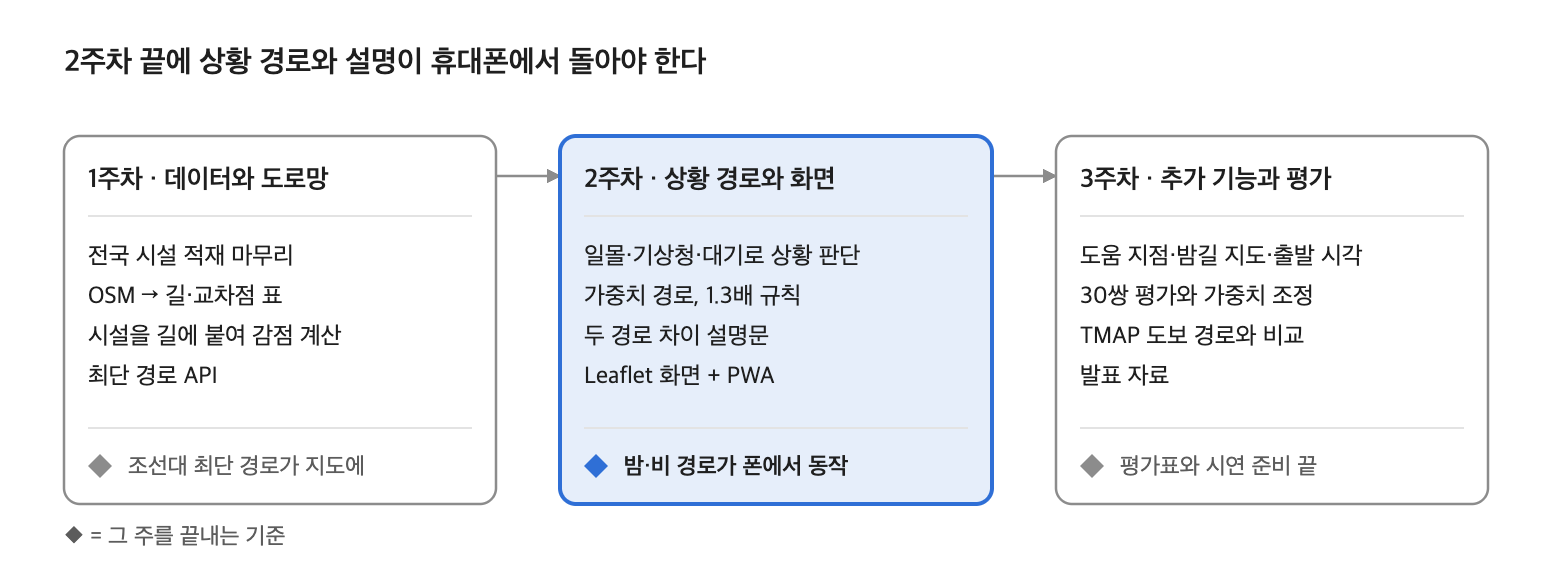
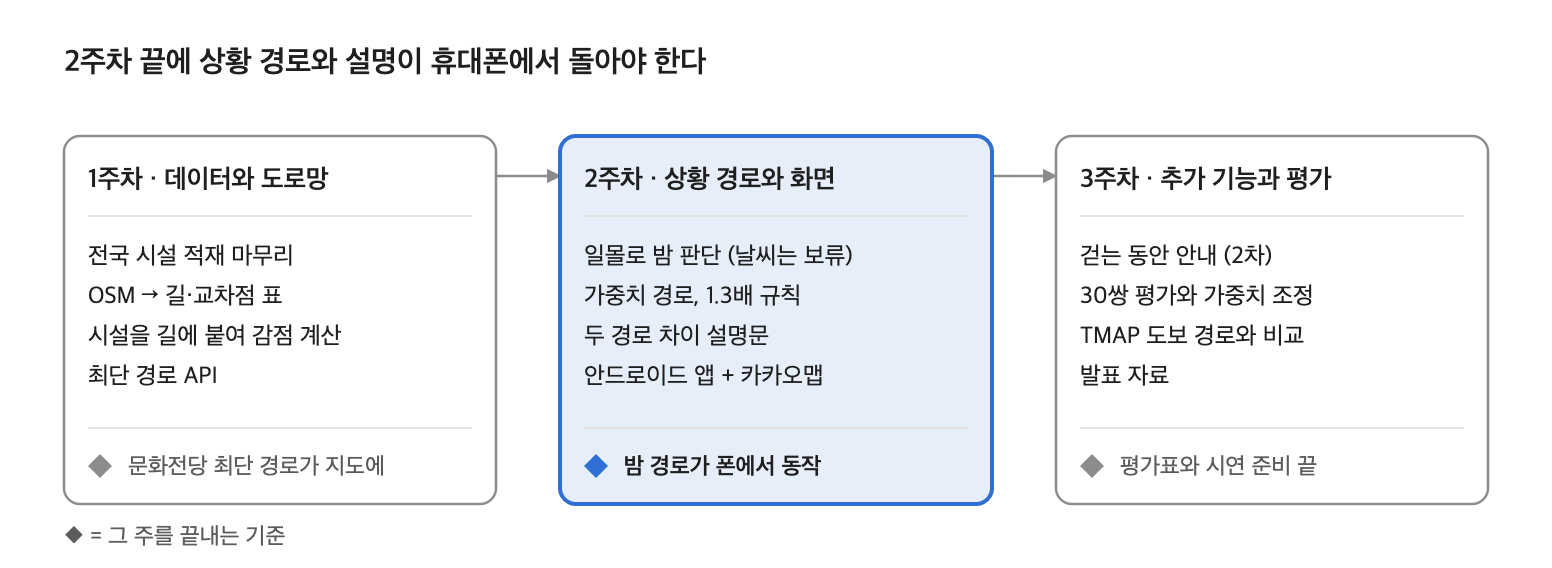
docs: v15 - 6장을 경로 엔진 기준(커버율·λ)으로 다시 씀, 0·3장 참조와 원본 그림 2개 고침

diff --git a/requirements/05-data-and-cost-model.md b/requirements/05-data-and-cost-model.md
@@ -100,86 +100,59 @@
 
 ## 6. 경로 비용 모델
 
-길 하나의 비용은 **길이에 상황별 감점을 곱한 값**이다. 감점이 모두 0이면 최단 경로와 같고, 감점이 클수록 같은 길이도 더 멀게 친다. 조선대 데이터로 돌려 본 결과와 바꿀 점은 6.5에 있다.
+경로 엔진(B파트 원일, develop에 합침 PR #28·#30)이 길을 고르는 기준이다. 실제 값은 코드 저장소의 `src/main/resources/route.yml`, 설명은 `docs/route-weights.md`에 있고, 결정 과정과 근거는 B파트의 「경로 엔진 결정 사항 정리」(2026-11-02·03 확정)에 있다. 값을 바꾸면 세 곳과 이 장을 함께 고친다. 처음 안(길이에 상황별 감점을 곱하는 식, 2026-10-29)은 시험해 보니 짧은 계단·횡단에 감점이 거의 붙지 않아 어린이·노인 모드가 작동하지 않았고(6.5), 그래서 지금 식으로 바꿨다.
 
-```latex
-\text{cost}(e) = \text{length}(e) \times \left(1 + \sum_{k} w_k(\text{상황}) \cdot p_k(e)\right), \quad 0 \le p_k(e) \le 1
+```text
+길 비용 = 길이 + λ × 추가 비용
+추가 비용 = 길이 × Σ 비중 × (그 길 중 기준 범위 밖 비율)
 ```
 
-### 6.1 감점 항목
+### 6.1 기준 항목
 
-감점은 모두 0\~1로 맞춘다. 시설 수는 길이로 나눠서, 긴 길이 시설이 많아 보이는 것을 막는다.
+길마다 시설 범위 안에 드는 길이의 비율(커버율)을 본다. 범위 밖 비율이 클수록 추가 비용이 붙는다. DB의 `edge_stat`에는 원값만 있고, 서버가 요청 때 정제 시설 표 `poi`로 계산한다.
 
-| 감점 | 계산 | 쓰는 데이터 | 결합 반경 |
+| 기준 | 시설 | 범위 | 쓰는 모드·때 |
 | --- | --- | --- | --- |
-| 밝기 부족 | 1 − min(1, 조명 수 ÷ (길이 ÷ 25m)) | 가로등 + 보안등 | 30m |
-| CCTV 부족 | 1 − min(1, 카메라 대수 ÷ (길이 ÷ 50m)) | CCTV (10m 안 중복은 하나로) | 50m |
-| 도움 지점 멀음 | min(1, 가장 가까운 도움 지점까지 거리 ÷ 300m) | 경찰·편의점·지킴이집·비상벨 | 길 가운데에서 300m |
-| 덮개 없음 | 덮인 길이면 0, 아니면 1 | OSM `covered`, `tunnel`, `indoor` | — |
-| 계단 | 계단이면 1, 아니면 0 | OSM `highway=steps` | — |
-| 무더위쉼터 멀음 | min(1, 가장 가까운 쉼터 ÷ 500m) | 무더위쉼터 | 500m |
-| 한파쉼터 멀음 | min(1, 가장 가까운 쉼터 ÷ 500m) | 한파쉼터 | 500m |
-| 큰 차도 | 간선·주간선도로 1, 보조간선 0.5, 나머지 0 | OSM `highway` 등급 | — |
+| 밝기 `light` | 가로등·보안등 | 길 따라 30m (가장 가까운 길 하나에 20m 안으로 붙임. 직선 반경은 건물 너머 길까지 세어 약 1/3을 과대 계산했음) | 어른·어린이·노인의 밤 |
+| CCTV `cctv` | CCTV. 교통·쓰레기·시설·재난 단속용은 빼고 목적 모름은 셈(결정 39) | 길 따라 50m | 어른·어린이·노인의 밤 |
+| 도움 시설 `help` | 낮: 경찰·편의점·비상벨·아동안전지킴이집. 밤: 지킴이집과 건물·화장실 안 비상벨을 빼고 셈 | 반경 (어른 160m, 어린이 150m, 노인 120m) | 어린이 낮, 어른·어린이·노인의 밤 |
+| 보호구역 `school` | 어린이보호구역 대상 시설 | 반경 300m (도로교통법 제12조) | 어린이 낮 |
+| 쉴 곳 `rest` | 무더위·한파쉼터, 공중화장실 | 반경 120m | 노인 낮 (밤에는 화장실을 경로에 넣지 않음) |
 
-### 6.2 상황별 가중치 (초깃값)
+반경은 걸어서 약 2분 거리다. 도움 시설과 쉴 곳은 지금 이용 가능한 곳만 센다(6.3).
 
-상황이 겹치면 가중치를 더한다. 값은 설정 파일에 두고 2주차 평가로 조정한다.
+### 6.2 모드별 기준
 
-| 감점 | 평소 | 밤 | 비 | 폭염 | 한파 | 미세먼지 |
-| --- | --- | --- | --- | --- | --- | --- |
-| 밝기 부족 | 0 | 1.0 | 0 | 0 | 0 | 0 |
-| CCTV 부족 | 0 | 0.6 | 0 | 0 | 0 | 0 |
-| 도움 지점 멀음 | 0 | 0.4 | 0 | 0 | 0 | 0 |
-| 덮개 없음 | 0 | 0 | 0.5 | 0.2 | 0 | 0 |
-| 계단 | 0 | 0.1 | 0.3 | 0 | 0.3 | 0 |
-| 무더위쉼터 멀음 | 0 | 0 | 0 | 0.4 | 0 | 0 |
-| 한파쉼터 멀음 | 0 | 0 | 0 | 0 | 0.4 | 0 |
-| 큰 차도 | 0 | 0 | 0 | 0 | 0 | 0.5 |
+| 모드 | 낮 | 밤 | 우회 한도 | 걸음 속도 |
+| --- | --- | --- | --- | --- |
+| 일반 `adult` | 가장 짧은 길 | 밝기 > 도움 시설(160m) > CCTV (비중 9 : 3 : 1) | 1.3배 | 분당 80m |
+| 어린이 `child` | 보호구역(300m) > 도움 시설(150m) (3 : 1) | 일몰 60분 전부터 밤. 밝기 > 도움 시설(150m) > CCTV (9 : 3 : 1) | 1.3배 | 분당 70m |
+| 노인 `senior` | 계단 조건부 제외 + 지금 이용 가능한 쉴 곳(120m) | 계단 조건부 제외 + 밝기 > 도움 시설(120m) > CCTV | 1.2배 | 분당 60m |
+| 장애인 `wheelchair` | 계단(휠체어 경사로가 있는 계단은 지남, 결정 43)·확인된 턱·못 지나는 육교를 뺀 뒤 가장 짧은 길 | 낮과 같음 | 없음 | 분당 60m (정할 것) |
+
+- **계단 조건부 제외:** 계단 없는 길이 우회 한도 안에 있으면 계단 길을 뺀다. 없으면 계단을 지나는 경로를 준다.
+- **밤:** 일몰 시각으로 판단한다(어린이는 일몰 60분 전부터). 비·폭염 같은 날씨는 아직 넣지 않았다(6.4).
+- **장애인 모드:** 지나갈 수 없는 길은 비용을 붙이지 않고 그래프에서 뺀다. 경사는 확인하지 않으므로(결정 36) 화면에 "경사는 확인하지 않은 길"이라고 알린다.
 
 ### 6.3 규칙
 
-- **최대 우회:** 상황 경로가 최단의 1.3배를 넘으면 가중치를 절반으로 줄여 다시 찾는다. 3번 후에도 넘으면 최단 경로를 주고 그 사실을 알린다.
-- **데이터 없음:** 시·군·구의 시설 밀도가 전국 중간값의 10% 아래인 종류는 그 지역에서 감점을 0.5(중립)로 두고 화면에 "데이터 부족"을 표시한다.
-- **미리 계산:** 감점 p는 상황과 관계없으므로 길마다 미리 계산해 DB에 저장하고, 요청 때는 가중치만 곱한다.
-- **차이 설명:** 두 경로가 지나는 시설 수(결합 반경 안)를 종류별로 세어 차이가 큰 순서로 3개까지 문장에 넣는다. 시간은 보행 속도 분당 80m로 환산한다.
+- **λ 찾기:** 맞춤 경로가 우회 한도를 넘지 않는 가장 큰 λ(0\~1)를 이분 탐색으로 찾는다. 한도 안에서 기준을 가장 강하게 챙긴다.
+- **시설 읽기:** 요청마다 `poi`를 한 번 읽어 경로 점수와 설명 문장이 같은 시설 목록을 쓴다. `poi`는 출처 중복을 합치고 단속용 CCTV를 뺀 표라 서버에서 다시 합치지 않는다. 요청 하나에 약 0.1\~0.25초(문화전당 반경 2km)가 걸렸고, 광주 전체 도로망에서의 속도는 B파트가 확인한다.
+- **지금 이용 가능:** A파트 `poi_status`와 같은 규칙을 요청 시각으로 계산한다. 운영 기간(무더위쉼터 5.20\~9.30, 한파쉼터 11.15\~3.15), 여는 시간, 요일, 공휴일(`holiday` 표)로 판단한다. 편의점은 시간 정보가 없어도 연 것으로 보고, 그 밖에 "확인 안 됨"인 시설은 세지 않는다. 시간 정보가 없는 쉼터는 운영 기간 안이면 평일 09\~18시에 연 것으로 본다. 바탕 데이터는 실시간이 아니다.
+- **모르는 값:** 보도턱·신호 등 모르는 값은 감점하지 않고 "확인 안 됨"으로만 알린다(결정 45). 보도턱을 모르는 횡단은 지나간다.
+- **데이터 부족:** `edge_stat.data_gap`의 시설 비트(밝기·CCTV·도움 지점·지킴이집·쉴 곳)는 응답의 `dataQuality`(데이터 부족 표시)에만 쓰고 점수는 바꾸지 않는다. 빈 곳을 안전하다고 하지 않는다(NFR-04).
 
-### 6.4 모드별 가중치 (초깃값)
+### 6.4 쓰지 않는 것과 보류
 
-모드는 6.2의 상황 가중치를 **곱하거나(×) 항상 더하는(+)** 방식으로 바꾼다. "+"는 낮·맑은 날에도 적용된다는 뜻이다.
+- **쓰지 않음:** 사고다발지역(지역 낙인 우려, FR-44 보류), 경사(결정 36), 안심 강화(FR-21, 결정 38).
+- **보류:** 날씨(비·폭염·한파, 6.5의 날씨 가중치 안), 어린이 신호 없는 횡단, 보도턱 신고, 긴급 안내.
+- **DB에만 남김:** 덮인 길, 큰 차도 등급, 횡단 수, 쉼터까지 거리 같은 원값은 엔진이 지금 쓰지 않지만 `edge_stat`·`road_edge`에 남긴다(결정 43). 보류한 기준을 넣을 때 다시 계산하지 않아도 된다.
 
-모드 때문에 감점 3개를 새로 둔다.
+### 6.5 경로 엔진 시험 결과와 결정 과정 (B파트, 2026-10-30\~11-03)
 
-| 새 감점 | 계산 | 쓰는 데이터 |
-| --- | --- | --- |
-| 지킴이집 멀음 | min(1, 가장 가까운 아동안전지킴이집 ÷ 300m) | 생활안전지도 아동안전지킴이집 |
-| 횡단 많음 | min(1, 길 100m당 횡단보도 수 ÷ 2) | OSM `highway=crossing` (부족하면 전국횡단보도표준데이터) |
-| 쉼 곳 멀음 | min(1, 가장 가까운 쉼터·공중화장실 ÷ 300m) | 무더위·한파쉼터, 공중화장실 |
-| 사고다발 영역 (보류) | 길이 모드에 맞는 사고다발 영역 안이면 1, 아니면 0 | 도로교통공단 보행노인·보행어린이 사고다발지역 (FR-44) |
+아래는 6.1\~6.4 기준을 정하기까지의 기록이다. B파트(원일)가 처음 안(길이에 상황별 감점을 곱하는 식과 상황·모드별 가중치 초깃값, 2026-10-29)을 조선대 주변 실제 데이터(OSM 길 5,100개와 팀 DB 시설)로 돌려 본 결과에서 시작한다. 무작위 출발·도착 200쌍(직선 0.5\~3km)을 모드별로 비교했다. 아래 값 중에는 지금 쓰지 않는 것도 있으니, 지금 기준은 6.1\~6.4와 `route.yml`을 본다. 원문은 B파트의 「경로 엔진 결정 사항」과 코드 저장소의 `docs/route-weights.md`다.
 
-| 항목 | 어린이·청소년 | 청년·중년 (기준) | 노인 |
-| --- | --- | --- | --- |
-| 나이 | 18세 이하 | 19\~64세 | 65세 이상 |
-| 밤 감점(밝기·CCTV·도움 지점) | ×1.5 | ×1 | ×1 |
-| 지킴이집 멀음 | +0.4 | 0 | 0 |
-| CCTV 부족 | +0.3 | 상황값 | 상황값 |
-| 큰 차도 | +0.5 | 상황값 | +0.3 |
-| 횡단 많음 | +0.3 | 0 | +0.3 |
-| 계단 | 상황값 | 상황값 | +0.6 |
-| 쉼 곳 멀음 | 0 | 0 | +0.3 |
-| 사고다발 영역 (보류) | +0.2 (어린이 영역) | 0 | +0.2 (노인 영역) |
-| 최대 우회 | 1.3배 | 1.3배 | 1.2배 |
-| 보행 속도 (시간 환산) | 분당 70m | 분당 80m | 분당 60m |
-| 밤 판단 시작 | 일몰 1시간 전 | 일몰 | 일몰 |
-
-경사는 쓰지 않는다(결정 36). 노인 모드는 계단 감점으로 대신한다. 어린이·청소년 모드의 값은 두 나이대를 합친 추정값이라 2주차 평가와 민감도 분석으로 고친다.
-
-**휠체어 모드 (FR-46, 3차, 초깃값).** 다른 모드와 달리 "지나갈 수 없는 길"은 감점이 아니라 그래프에서 뺀다: 계단, 엘리베이터 없는 육교·지하보도. 감점은 보도턱 안 낮춘 횡단보도 +1.0, 고르지 않은 바닥 +0.3, 정보 없는 횡단보도 +0.2(그리고 "확인 안 됨" 표시)로 둔다. 밤 감점은 청년·중년과 같게(×1) 하고, 최대 우회는 1.5배, 속도는 분당 60m다. 값은 사용자 확인과 평가로 고친다. 경사는 휠체어 모드에도 쓰지 않으므로(결정 36) 화면에 "경사는 확인하지 않은 길"이라고 알린다.
-
-### 6.5 경로 엔진 시험 결과와 정할 것 (B파트, 2026-10-30)
-
-B파트(원일)가 6.1\~6.4 값을 조선대 주변 실제 데이터(OSM 길 5,100개와 팀 DB 시설)로 돌려 본 결과다. 무작위 출발·도착 200쌍(직선 0.5\~3km)을 모드별로 비교했다. 원문은 B파트의 「경로 엔진 결정 사항」과 코드 저장소의 `docs/route-weights.md`다.
-
-**결론.** 지금 식(감점을 길이에 곱함)으로는 어린이·노인 모드가 거의 작동하지 않는다. 계단(평균 34m)이나 횡단 구간(절반이 30m 미만)처럼 짧은 길에 붙은 감점은 비용이 몇 m밖에 안 붙기 때문이다. 밤에 노인이 계단을 피한 경우는 0%였다. 휠체어의 제외 규칙은 확실히 작동했다(계단 0곳). 계단·횡단을 지날 때마다 고정 비용을 더하는 방식으로 바꾸자 세 지역 모두에서 작동했다.
+**결론.** 처음 식(감점을 길이에 곱함)으로는 어린이·노인 모드가 거의 작동하지 않는다. 계단(평균 34m)이나 횡단 구간(절반이 30m 미만)처럼 짧은 길에 붙은 감점은 비용이 몇 m밖에 안 붙기 때문이다. 밤에 노인이 계단을 피한 경우는 0%였다. 휠체어의 제외 규칙은 확실히 작동했다(계단 0곳). 계단·횡단을 지날 때마다 고정 비용을 더하는 방식으로 바꾸자 세 지역 모두에서 작동했다.
 
 | 확인한 것 (조선대 200쌍) | 지금 식 | 추천 규칙 |
 | --- | --- | --- |

diff --git a/requirements/03-functional.md b/requirements/03-functional.md
@@ -8,7 +8,7 @@
 | --- | --- | --- | --- | --- |
 | FR-01 | 출발·도착 입력 | 장소 이름·주소 검색(카카오), 지도 클릭, 현재 위치 | 1차 | "조선대학교" 검색 시 후보가 1초 안에 나옴 |
 | FR-01-1 | 출발↔도착 바꾸기 | 출발과 도착 칸 사이의 버튼 하나로 두 곳을 서로 바꿈. 바꾸면 경로를 바로 다시 계산 (예: 학교→집을 집→학교로) | 1차 | 버튼을 누르면 출발·도착이 바뀌고 2초 안에 반대 방향 경로가 나옴 |
-| FR-01-2 | 도착 예상 시각 | 출발·도착을 넣으면 최단·안전 경로 각각의 걸리는 시간과 도착 예상 시각을 보여 줌 (예: "26분 · 23:42 도착"). 시간은 모드별 보행 속도(6.4)로 계산. 걷는 동안에는 남은 거리로 다시 계산해 갱신(FR-30) | 1차 | 두 경로의 도착 시각이 나오고, 모드를 바꾸면 시간이 달라짐 |
+| FR-01-2 | 도착 예상 시각 | 출발·도착을 넣으면 최단·안전 경로 각각의 걸리는 시간과 도착 예상 시각을 보여 줌 (예: "26분 · 23:42 도착"). 시간은 모드별 보행 속도(6.2)로 계산. 걷는 동안에는 남은 거리로 다시 계산해 갱신(FR-30) | 1차 | 두 경로의 도착 시각이 나오고, 모드를 바꾸면 시간이 달라짐 |
 | FR-02 | 상황 자동 판단 | 일몰 계산 + 기상청 초단기실황 + 에어코리아로 밤·비·폭염·한파·미세먼지 판단 | 1차 (밤만, 일몰 계산) · 3차 (비·폭염·한파·미세먼지) | 좌표·시각을 넣으면 상황 목록과 근거값이 나옴. API가 실패하면 "정보 없음"으로 표시 |
 | FR-03 | 상황 수동 조정 | 자동 판단된 상황을 사용자가 켜고 끔 | 1차 | 바꾼 상황으로 경로가 다시 계산됨 |
 | FR-04 | 최단 경로 | 거리만 보는 기준 경로 | 1차 | 아시아문화전당 주변 2km 경로를 1초 안에 계산 |
@@ -47,10 +47,10 @@
 | FR-19 | 어린이·청소년 모드 세부 | 아동안전지킴이집·CCTV가 많고 큰 차도·횡단보도를 덜 건너는 길. 밤 감점 1.5배, 밤 판단은 일몰 1시간 전부터. 학원 귀가 같은 늦은 밤에는 편의점·지구대 같은 도움 지점 안내를 먼저 보여 줌 | 1차 | "지킴이집 2곳을 지나고 큰길 횡단을 1번 줄임" 형식의 설명 |
 | FR-20 | 노인 모드 세부 | 계단을 크게 피하고, 쉼터(경로당)·공중화장실이 가까운 길. 시간은 분당 60m로 환산하고 우회는 1.2배까지. 걷는 동안 넘어짐 감지(FR-33) | 1차 (넘어짐 감지 FR-33은 3차) | 계단이 있는 최단 경로 대신 계단 없는 길이 나오고, 쉼 곳 간격이 설명에 나옴 |
 | FR-21 | 안심 강화 (뺌, 결정 38) | 뺌(2026-11-02, 결정 38). 원래는 켜면 밤 감점을 1.5배로 올리고 우회를 1.4배까지 허용하는 모든 모드 위의 선택(옛 '여성 안심 모드'를 바꾼 것)이었음 | 뺌 | — |
-| FR-44 | 사고다발지역 주의 안내 (보류, 2026-11-02) | 어린이·청소년 모드는 도로교통공단 '보행어린이 사고다발지역', 노인 모드는 '보행노인 사고다발지역'을 씀(청년·중년 모드에서는 쓰지 않음). ① 경로가 영역을 지나면 지도에 영역을 표시하고 "어르신 보행 사고가 잦은 곳이에요. 신호를 지켜 건너세요"처럼 주의 문구를 띄움(데이터 기준 연도를 함께 표시). ② 영역 안의 길에만 아주 작은 감점(6.4, +0.2)을 줘서 거리가 거의 같은 다른 길이 있을 때만 피함. 크게 돌아가게 하지 않음. ③ 최단 경로는 지나고 안전 경로는 피했을 때만 설명(FR-06)에 "사고다발지역 1곳을 피했어요". 걷는 동안 안내(FR-30)에서는 "50m 앞, 어르신 보행 사고가 잦은 곳이에요" 배너. "위험 지역", "사고 없는 길"이라는 말은 쓰지 않음(다발지역은 일정 건수를 넘은 곳만 들어 있음). 어린이 모드의 큰 차도·횡단 감점과 이유가 겹치므로 감점은 작게 유지 | 3차 (추가안, 발표 뒤) | 사고다발 영역을 지나는 경로에서 영역과 주의 문구가 보이고, 최대 우회 한도를 넘겨 돌아가지 않음 |
-| FR-46 | 휠체어 모드 | 휠체어 사용자(또는 대신 길을 찾아 주는 가족)를 위한 모드. 화면 버튼 이름은 '장애인'이고 1차는 휠체어 사용자 기준(결정 35). 지나갈 수 없는 길은 아예 빼고: 계단(OSM에 휠체어 경사로가 표시된 계단은 빼지 않음, road\_edge.wheelchair\_ramp = 1. 계단 옆 경사로가 따로 그려진 곳은 그 길로 감), 엘리베이터 없는 육교·지하보도. 큰 감점: 보도턱을 낮추지 않은 횡단보도. 작은 감점: 바닥이 고르지 않은 길(OSM surface). 경사는 데이터 포털에 없어 길 상태 신고(FR-49)로 받음(결정 36). 우대: 보도턱 낮춘 횡단보도, 엘리베이터 있는 육교. 공사로 막힌 보도는 실시간 데이터가 없어 길 상태 신고(FR-49)로 받음. 정보가 없는 횡단보도·길은 "갈 수 있다"고 단정하지 않고 "확인 안 됨"으로 표시(NFR-04). 우회 한도는 1.5배, 속도는 분당 60m(둘 다 정할 것). 데이터와 가중치는 5.1·6.4 | 1차 (계단·엘리베이터 없는 육교 빼기, 바닥 재질) · 2차 (보도턱, 데이터를 받는 대로. 경사는 신고(FR-49)로) | 계단이 있는 최단 경로 대신 계단 없는 길이 나오고, 설명에 "계단 2곳, 턱 있는 횡단보도 1곳을 피함"과 "확인 안 된 구간" 수가 나옴 |
+| FR-44 | 사고다발지역 주의 안내 (보류, 2026-11-02) | 어린이·청소년 모드는 도로교통공단 '보행어린이 사고다발지역', 노인 모드는 '보행노인 사고다발지역'을 씀(청년·중년 모드에서는 쓰지 않음). ① 경로가 영역을 지나면 지도에 영역을 표시하고 "어르신 보행 사고가 잦은 곳이에요. 신호를 지켜 건너세요"처럼 주의 문구를 띄움(데이터 기준 연도를 함께 표시). ② 영역 안의 길에만 아주 작은 감점(처음 안은 +0.2. 지금 경로 엔진은 쓰지 않음, 6.4)을 줘서 거리가 거의 같은 다른 길이 있을 때만 피함. 크게 돌아가게 하지 않음. ③ 최단 경로는 지나고 안전 경로는 피했을 때만 설명(FR-06)에 "사고다발지역 1곳을 피했어요". 걷는 동안 안내(FR-30)에서는 "50m 앞, 어르신 보행 사고가 잦은 곳이에요" 배너. "위험 지역", "사고 없는 길"이라는 말은 쓰지 않음(다발지역은 일정 건수를 넘은 곳만 들어 있음). 어린이 모드의 큰 차도·횡단 감점과 이유가 겹치므로 감점은 작게 유지 | 3차 (추가안, 발표 뒤) | 사고다발 영역을 지나는 경로에서 영역과 주의 문구가 보이고, 최대 우회 한도를 넘겨 돌아가지 않음 |
+| FR-46 | 휠체어 모드 | 휠체어 사용자(또는 대신 길을 찾아 주는 가족)를 위한 모드. 화면 버튼 이름은 '장애인'이고 1차는 휠체어 사용자 기준(결정 35). 지나갈 수 없는 길은 아예 빼고: 계단(OSM에 휠체어 경사로가 표시된 계단은 빼지 않음, road\_edge.wheelchair\_ramp = 1. 계단 옆 경사로가 따로 그려진 곳은 그 길로 감), 엘리베이터 없는 육교·지하보도. 큰 감점: 보도턱을 낮추지 않은 횡단보도. 작은 감점: 바닥이 고르지 않은 길(OSM surface). 경사는 데이터 포털에 없어 길 상태 신고(FR-49)로 받음(결정 36). 우대: 보도턱 낮춘 횡단보도, 엘리베이터 있는 육교. 공사로 막힌 보도는 실시간 데이터가 없어 길 상태 신고(FR-49)로 받음. 정보가 없는 횡단보도·길은 "갈 수 있다"고 단정하지 않고 "확인 안 됨"으로 표시(NFR-04). 우회 한도는 없음(경로 엔진 기준, 6.2), 속도는 분당 60m(정할 것). 데이터와 기준은 5.1·6.2 | 1차 (계단·엘리베이터 없는 육교 빼기, 바닥 재질) · 2차 (보도턱, 데이터를 받는 대로. 경사는 신고(FR-49)로) | 계단이 있는 최단 경로 대신 계단 없는 길이 나오고, 설명에 "계단 2곳, 턱 있는 횡단보도 1곳을 피함"과 "확인 안 된 구간" 수가 나옴 |
 
-청년·중년 모드가 기준(6.2의 상황 가중치 그대로)이고, 나머지 모드는 이것을 조금씩 바꾼다. 가중치는 6.4에 있다. 나이대 구분은 2026-10-29에 정했다(결정 22번).
+청년·중년(adult) 모드가 기준(낮에는 가장 짧은 길, 밤에는 밝기·도움 시설·CCTV)이고, 나머지 모드는 기준 항목·반경·우회 한도를 바꾼다. 모드별 기준은 6.2에 있다. 나이대 구분은 2026-10-29에 정했다(결정 22번).
 
 **휠체어 모드(FR-46).** 나이대 모드와 따로, 휠체어 사용자를 위한 모드를 1차에 넣는다. 1차는 계단·엘리베이터 없는 육교를 빼는 것부터 하고, 보도턱은 데이터를 받는 대로 2차에 붙인다(2026-10-30, 결정 32번으로 결정 6번을 바꿈). 휠체어에 좋은 길은 "밝은 길"이 아니라 "턱·계단·급경사 없이 지나갈 수 있는 길"이라 쓰는 데이터가 다르다. 조선대 주변 OSM에는 이 정보가 거의 없어(5.3) 횡단보도·육교 표준데이터로 채우고, 데이터 포털에 없는 경사는 노인·장애인 모드의 길 상태 신고(FR-49)로 받는다(결정 36).
 

diff --git a/CHANGELOG.md b/CHANGELOG.md
@@ -6,6 +6,9 @@ v3의 근거 자료: [안심 서비스 실패 사례 분석](https://claude.ai/a
 
 | 판 | 날짜 | 바뀐 곳 | 무엇이 바뀌었나 | 왜 | 요청 |
 |---|---|---|---|---|---|
+| v15 | 2026-11-04 | 6장 머리말·6.1~6.4(새로 씀), 6.5 제목·첫 문단 | 6장을 경로 엔진(B파트, develop에 합침 PR #28·#30)의 실제 기준으로 바꿈. 식: 길 비용 = 길이 + λ × 추가 비용(그 길 중 시설 범위 밖 비율 × 비중), λ는 우회 한도 안에서 가장 큰 값을 이분 탐색. 6.1 기준 항목(밝기 길 따라 30m, CCTV 50m, 도움 시설 반경 160·150·120m, 보호구역 300m, 쉴 곳 120m), 6.2 모드별 낮·밤 기준·우회 한도(일반·어린이 1.3배, 노인 1.2배, 장애인 없음)·걸음 속도, 6.3 규칙(지금 이용 가능 판단, 모르는 값 감점 안 함, `data_gap`은 표시에만), 6.4 쓰지 않는 것과 보류(사고다발·경사·안심 강화, 날씨 보류, 안 쓰는 원값은 DB에 남김). 옛 6.1~6.4(감점을 길이에 곱하는 식, 상황·모드 가중치 초깃값 표)는 지우고, 6.5는 기준을 정한 과정의 기록으로 남김 | 문서는 2026-10-29 처음 안 그대로였고, 엔진은 6.5 시험 결과로 커버율 방식으로 바뀌어 서로 달랐음. 원문은 safe-route `docs/route-weights.md`·`route.yml` | 김재휘 |
+| v15 | 2026-11-04 | 0.2 모드 표(어린이 우대하는 길, 장애인 우회 한도)와 문단, 3장 FR-01-2·FR-44·FR-46·3.1 머리말 | 6장을 가리키던 곳을 새 6장에 맞춤: 어린이는 "밤은 일몰 1시간 전부터"(밤 기준 1.5배 뺌), 장애인 우회 한도 1.5배 → 없음, 보행 속도·모드 기준은 6.2, FR-44 사고다발 감점은 지금 엔진에서 쓰지 않음 | 6장과 같은 이유 | 김재휘 |
+| v15 | 2026-11-04 | 8장 시스템 구성 그림, 11장 3주 일정 그림 | 원본 문서 그림의 예전 내용을 고침. 시스템 구성: MySQL 8.4 → 8.0, 시설 표 10개·`edge_penalty` → `poi`·`edge_stat`·`edge_poi`·대중교통 표, 광주 전체 길 81,847개, 앱은 SOS 대신 차이 설명. 3주 일정: 조선대 → 문화전당, Leaflet+PWA → 안드로이드 앱+카카오맵, 날씨는 보류, 3주차는 걷는 동안 안내(2차) | 그림이 처음 계획(웹 화면, 조선대) 그대로 남아 있었음 | 김재휘 |
 | v14 | 2026-11-03 | 1장 개요 표 서비스 지역·개발·시연 지역 줄, 7장 도로망 줄 | 도로망이 지금 광주 전체만 있어 경로는 광주 안에서만 찾는다고 적고, 시연·30쌍 평가는 그대로 문화전당 반경 2km에서 한다고 나눠 적음. 7장 도로망 줄을 실제로 받은 방법(Overpass로 광주 전체를 칸 30개로 나눠 받음)으로 고침 | 결정 44 뒤에도 두 곳에 예전 범위(시연 지역만, 전국은 PBF 예정)가 남아 있었음 | 김재휘 |
 | v14 | 2026-11-03 | 12장 결정 44(새로 만듦), 4.1 1번, 0.3 도로망 DB 줄, 5.1 도로망 줄, 5.4 16번, 6.5 정제 줄·"광주 전체로 다시 계산" 문단과 구별 표(새로 만듦), 8.2 문단 | 도로망과 길별 원값 범위를 문화전당 반경 2km에서 **광주 행정구역 전체**로 넓힘: `road_node` 62,113·`road_edge` 81,847(약 6,154km)·`edge_stat` 81,847·`poi` 100,547·`edge_poi` 171,525. 광주 전체에서 등 30m 안 길 52%, CCTV 50m 안 16%, 구별로는 서구가 가장 밝고(74%) 남구가 가장 어두움(26%). **제약: 경로는 광주 안에서만 찾음**. 경로 엔진의 사각형 범위 안이지만 광주 밖인 곳(나주·담양·화순 일부)은 지금 처리하지 않고 나중에 범위를 넓힐 때 해결 | 사용자 결정. 시연·평가를 문화전당 주변에만 가두지 않으려고. 시설 표는 이미 광주 전체라 도로망만 넓히면 됨. 코드는 safe-route PR #32(`--area` 옵션) | 김재휘 |
 | v14 | 2026-11-03 | 12장 결정 43(새로 만듦), 3장 모드 값, 6.5 모드 이름 줄, 8.3 `mode` 메모 | 모드 이름을 경로 엔진 기준 `adult`(일반)·`child`(어린이)·`senior`(노인)·`wheelchair`(장애인)로 통일. 앱은 지금 `disabled`·`general`을 보내므로 바꿔야 함. `edge_stat`은 엔진이 지금 안 쓰는 칸도 남기고, 휠체어 모드는 경사로가 표시된 계단(`wheelchair_ramp = 1`)을 빼지 않음 | 앱·문서·엔진 세 곳의 이름이 달랐고 엔진은 모르는 이름을 오류로 돌려줌 | 김재휘 |

diff --git a/requirements/00-overview.md b/requirements/00-overview.md
@@ -49,13 +49,13 @@ Oct 28, 2026 · @JJ
 
 | 모드 | 주로 누가 | 우대하는 길 | 피하는 길 | 더 도는 한도 · 걸음 속도 | 이 모드만의 기능 | 설명 문장 예 |
 | --- | --- | --- | --- | --- | --- | --- |
-| 어린이·청소년 (FR-19) | 초등학생·중고생, 또는 등하굣길·학원길을 보는 보호자 | 아동안전지킴이집·CCTV·편의점이 많고 밝은 길 (밤 기준 1.5배) | 큰 차도, 횡단보도를 많이 건너는 길, 어두운 골목 | 1.3배 · 분당 70m | 밤 판단을 일몰 1시간 전부터, 늦은 밤에는 도움 지점 안내를 먼저 | "지킴이집 2곳을 지나고 큰길 횡단을 1번 줄임" |
+| 어린이·청소년 (FR-19) | 초등학생·중고생, 또는 등하굣길·학원길을 보는 보호자 | 아동안전지킴이집·CCTV·편의점이 많고 밝은 길 (밤은 일몰 1시간 전부터) | 큰 차도, 횡단보도를 많이 건너는 길, 어두운 골목 | 1.3배 · 분당 70m | 밤 판단을 일몰 1시간 전부터, 늦은 밤에는 도움 지점 안내를 먼저 | "지킴이집 2곳을 지나고 큰길 횡단을 1번 줄임" |
 | 청년·중년 (기준) | 밤에 귀가하는 대학생·직장인, 처음 가는 동네 방문자 | 밤에는 밝고 CCTV·도움 지점이 많은 길, 비 오면 덮인 길 | 어두운 골목 | 1.3배 · 분당 80m | 상황별 경로 (기준 모드) | "180m(2분) 더 돌지만 CCTV +12대" |
 | 노인 (FR-20) | 65세 이상 어르신, 또는 대신 길을 찾아 주는 가족 | 쉼터(경로당)·공중화장실이 가까운 길 | 계단 (크게), 큰 차도, 횡단 많은 길 | 1.2배 · 분당 60m | 계단 없는 길 우선, 쉬는 곳 간격 안내, 넘어짐 감지 | "계단 없이 가고, 쉬는 곳이 300m마다 있음" |
 | 더위·추위에 약한 보행자 | 모드 아님 (상황으로 자동) | 폭염이면 무더위쉼터, 한파면 한파쉼터 근처 길 | 쉼터에서 먼 길 | 선택한 모드를 따름 | 쉼터를 거쳐 가는 경로 (FR-16, 선택) | "가는 길에 무더위쉼터 2곳" |
-| 장애인·휠체어 (FR-46, 1차) | 휠체어 사용자, 또는 대신 길을 찾아 주는 가족 | 보도턱 낮춘 횡단보도, 엘리베이터 있는 육교, 완만한 길 | 계단·엘리베이터 없는 육교(아예 뺌), 턱 있는 횡단보도, 공사 구간·급경사(신고, FR-49) | 1.5배 · 분당 60m (정할 것) | 정보가 없는 곳은 "확인 안 됨"으로 표시 | "계단 2곳과 턱 있는 횡단보도 1곳을 피해 210m 더 감. 확인 안 된 횡단보도 1곳" |
+| 장애인·휠체어 (FR-46, 1차) | 휠체어 사용자, 또는 대신 길을 찾아 주는 가족 | 보도턱 낮춘 횡단보도, 엘리베이터 있는 육교, 완만한 길 | 계단·엘리베이터 없는 육교(아예 뺌), 턱 있는 횡단보도, 공사 구간·급경사(신고, FR-49) | 한도 없음 · 분당 60m (정할 것) | 정보가 없는 곳은 "확인 안 됨"으로 표시 | "계단 2곳과 턱 있는 횡단보도 1곳을 피해 210m 더 감. 확인 안 된 횡단보도 1곳" |
 
-모드마다 구체적인 가중치는 6.4에 있다. 고른 모드는 휴대폰에만 저장하고 서버에는 남기지 않는다(NFR-07). 1차는 어린이·청소년·노인·휠체어 모드와 기본(청년·중년) 모드로 만든다. 화면 버튼 이름은 어린이·노인·장애인·일반이다(결정 35). 안심 강화(FR-21)는 뺐고(결정 38), 사고다발지역 안내(FR-44)는 보류다.
+모드마다 구체적인 기준은 6.2에 있다. 고른 모드는 휴대폰에만 저장하고 서버에는 남기지 않는다(NFR-07). 1차는 어린이·청소년·노인·휠체어 모드와 기본(청년·중년) 모드로 만든다. 화면 버튼 이름은 어린이·노인·장애인·일반이다(결정 35). 안심 강화(FR-21)는 뺐고(결정 38), 사고다발지역 안내(FR-44)는 보류다.
 
 **사용자별 시나리오.** 같은 앱을 세 사람이 어떻게 쓰는지 순서대로 적었다. 시연도 이 세 장면으로 한다. 장소는 국립아시아문화전당 주변(광주 동구, 반경 2km. 2026-11-02에 조선대에서 옮김, 결정 37)이고, 사람은 예시다.
 
